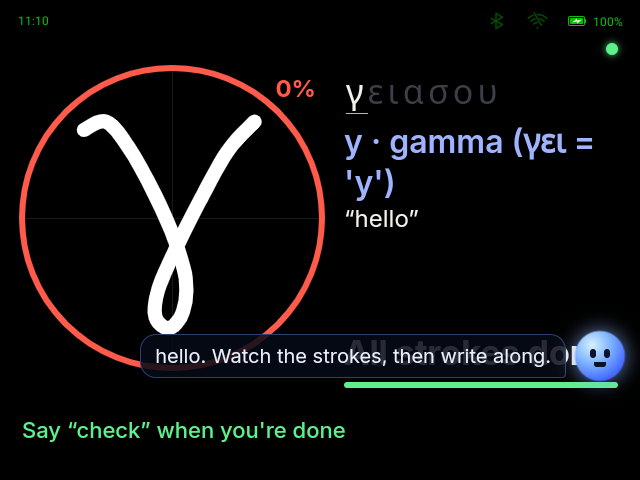
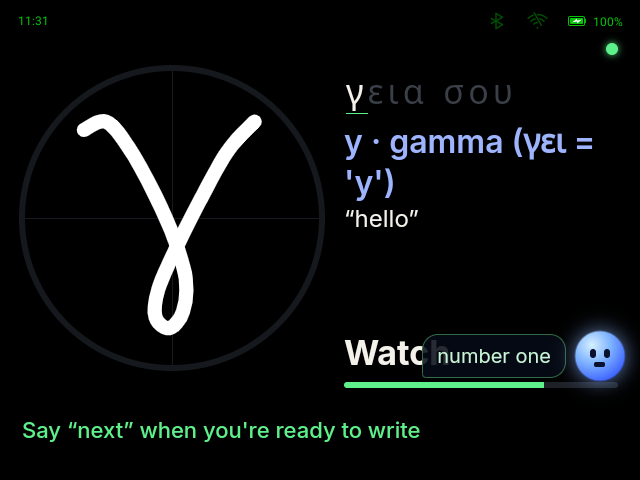
glasses: a newer voice reply cancels an older one still in progress (fixes 'home' after a result being overridden); Greek strip screenshot with word gap
Claude-Session: https://claude.ai/code/session_01VhMLrwFFtgB5pPCnMZUE72

diff --git a/glasses-android/app/src/main/assets/ui/index.html b/glasses-android/app/src/main/assets/ui/index.html
@@ -1201,7 +1201,9 @@
     else if (url && N.speakUrl) N.speakUrl(url, r.say || ""); else if (r.say) N.speak(r.say);
     if (r.mood === "laugh" || r.mood === "celebrate" || funny(r.say)) laugh(1600);
   }
+  var replyGen = 0;   // a newer reply cancels whatever an older one still had to do (no stale navigation)
   function applyReply(r, heard) {
+    var gen = ++replyGen;
     var acts = r.actions || r.tools || r.steps || r.tool_calls || [];
     if (!Array.isArray(acts)) acts = [acts];
     acts = acts.map(function (x) { return typeof x === "string" ? { tool: x, args: {} } : { tool: x.tool || x.name || x.action || x.type, args: x.args || x.arguments || x.input || {} }; })
@@ -1210,12 +1212,13 @@
     if (hasSay) { holdSay++; heldLines = []; }
     event("voice", { heard: heard, intent: r.intent, tools: acts.map(function (x) { return x.tool; }), nav: r.nav || null, screen: st.screen, source: "glasses" });
     var chain = Promise.resolve();
-    acts.forEach(function (x) { chain = chain.then(function () { runTool(x.tool, x.args); return waitIdle(); }); });
+    acts.forEach(function (x) { chain = chain.then(function () { if (gen !== replyGen) return; runTool(x.tool, x.args); return waitIdle(); }); });
     return chain.then(function () {
+      if (gen !== replyGen) { console.log("reply superseded: " + heard); return; }
       applyNav(r.nav, r.session);
       return waitIdle(1500);
     }).catch(function (e) { console.log("apply error " + e); }).then(function () {
-      if (hasSay) { holdSay = Math.max(0, holdSay - 1); heldLines = []; speakReply(r); }
+      if (hasSay) { holdSay = Math.max(0, holdSay - 1); heldLines = []; if (gen === replyGen) speakReply(r); }
       report();
     });
   }
